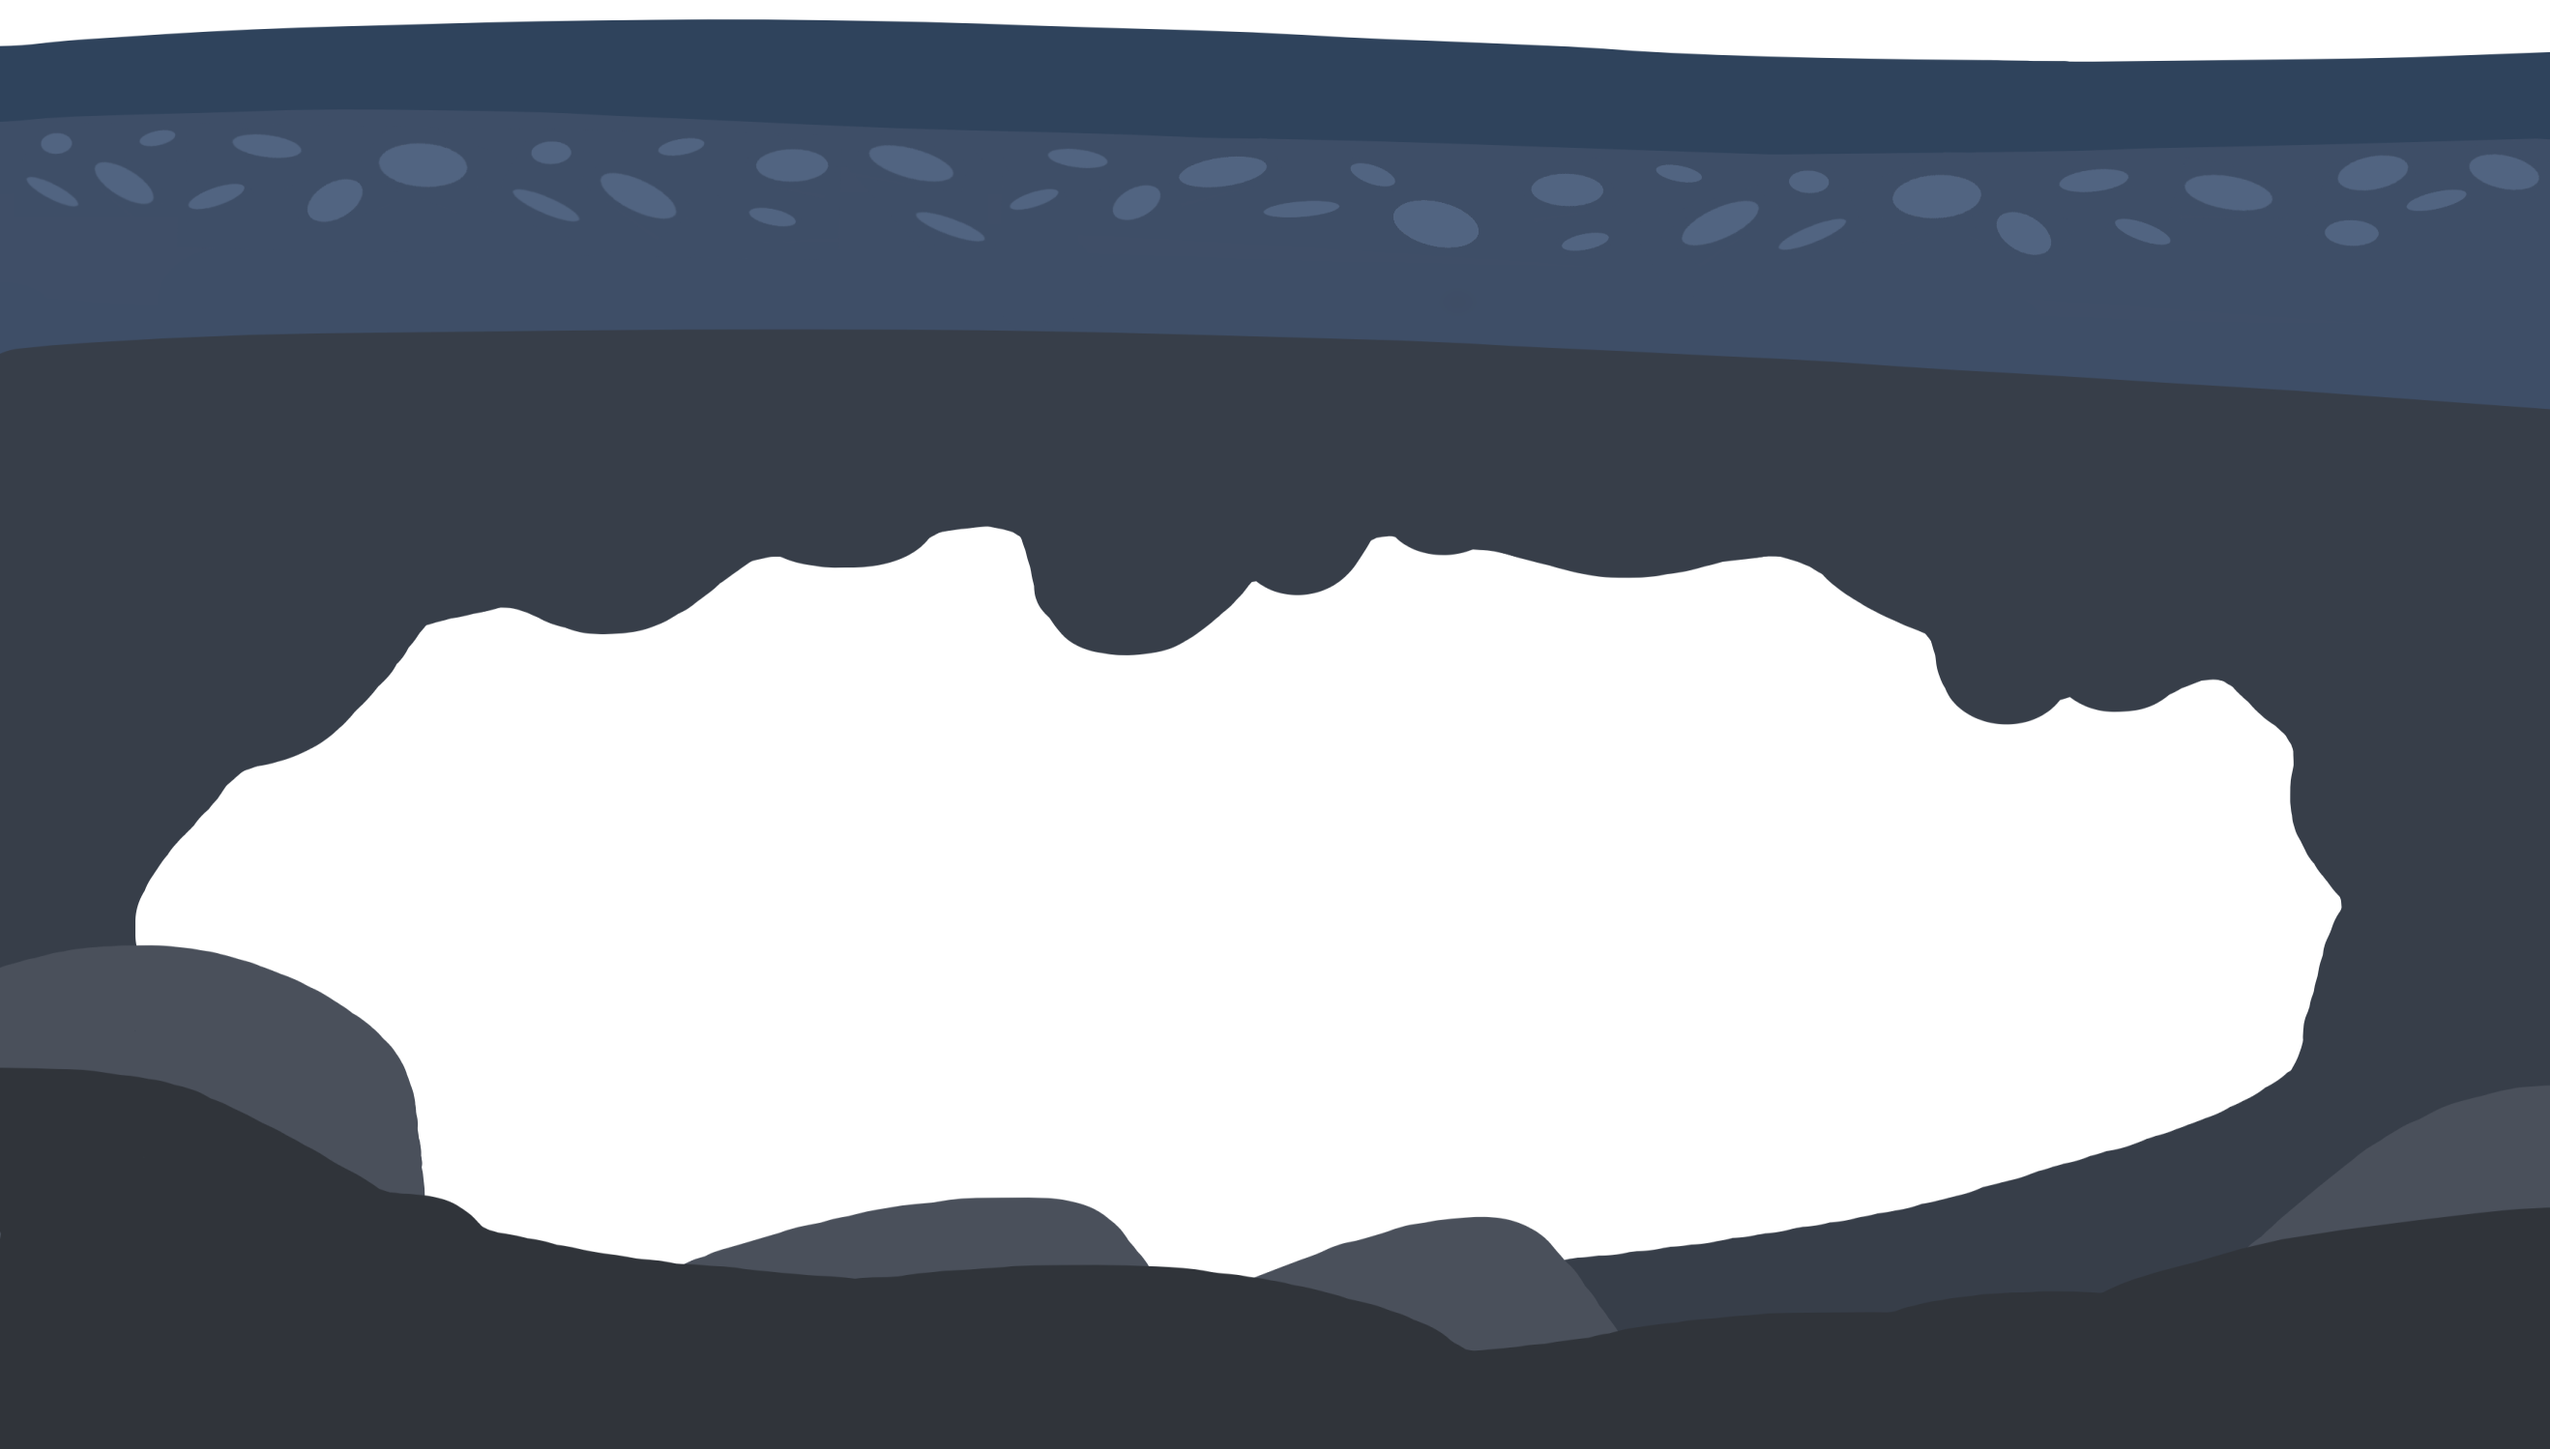
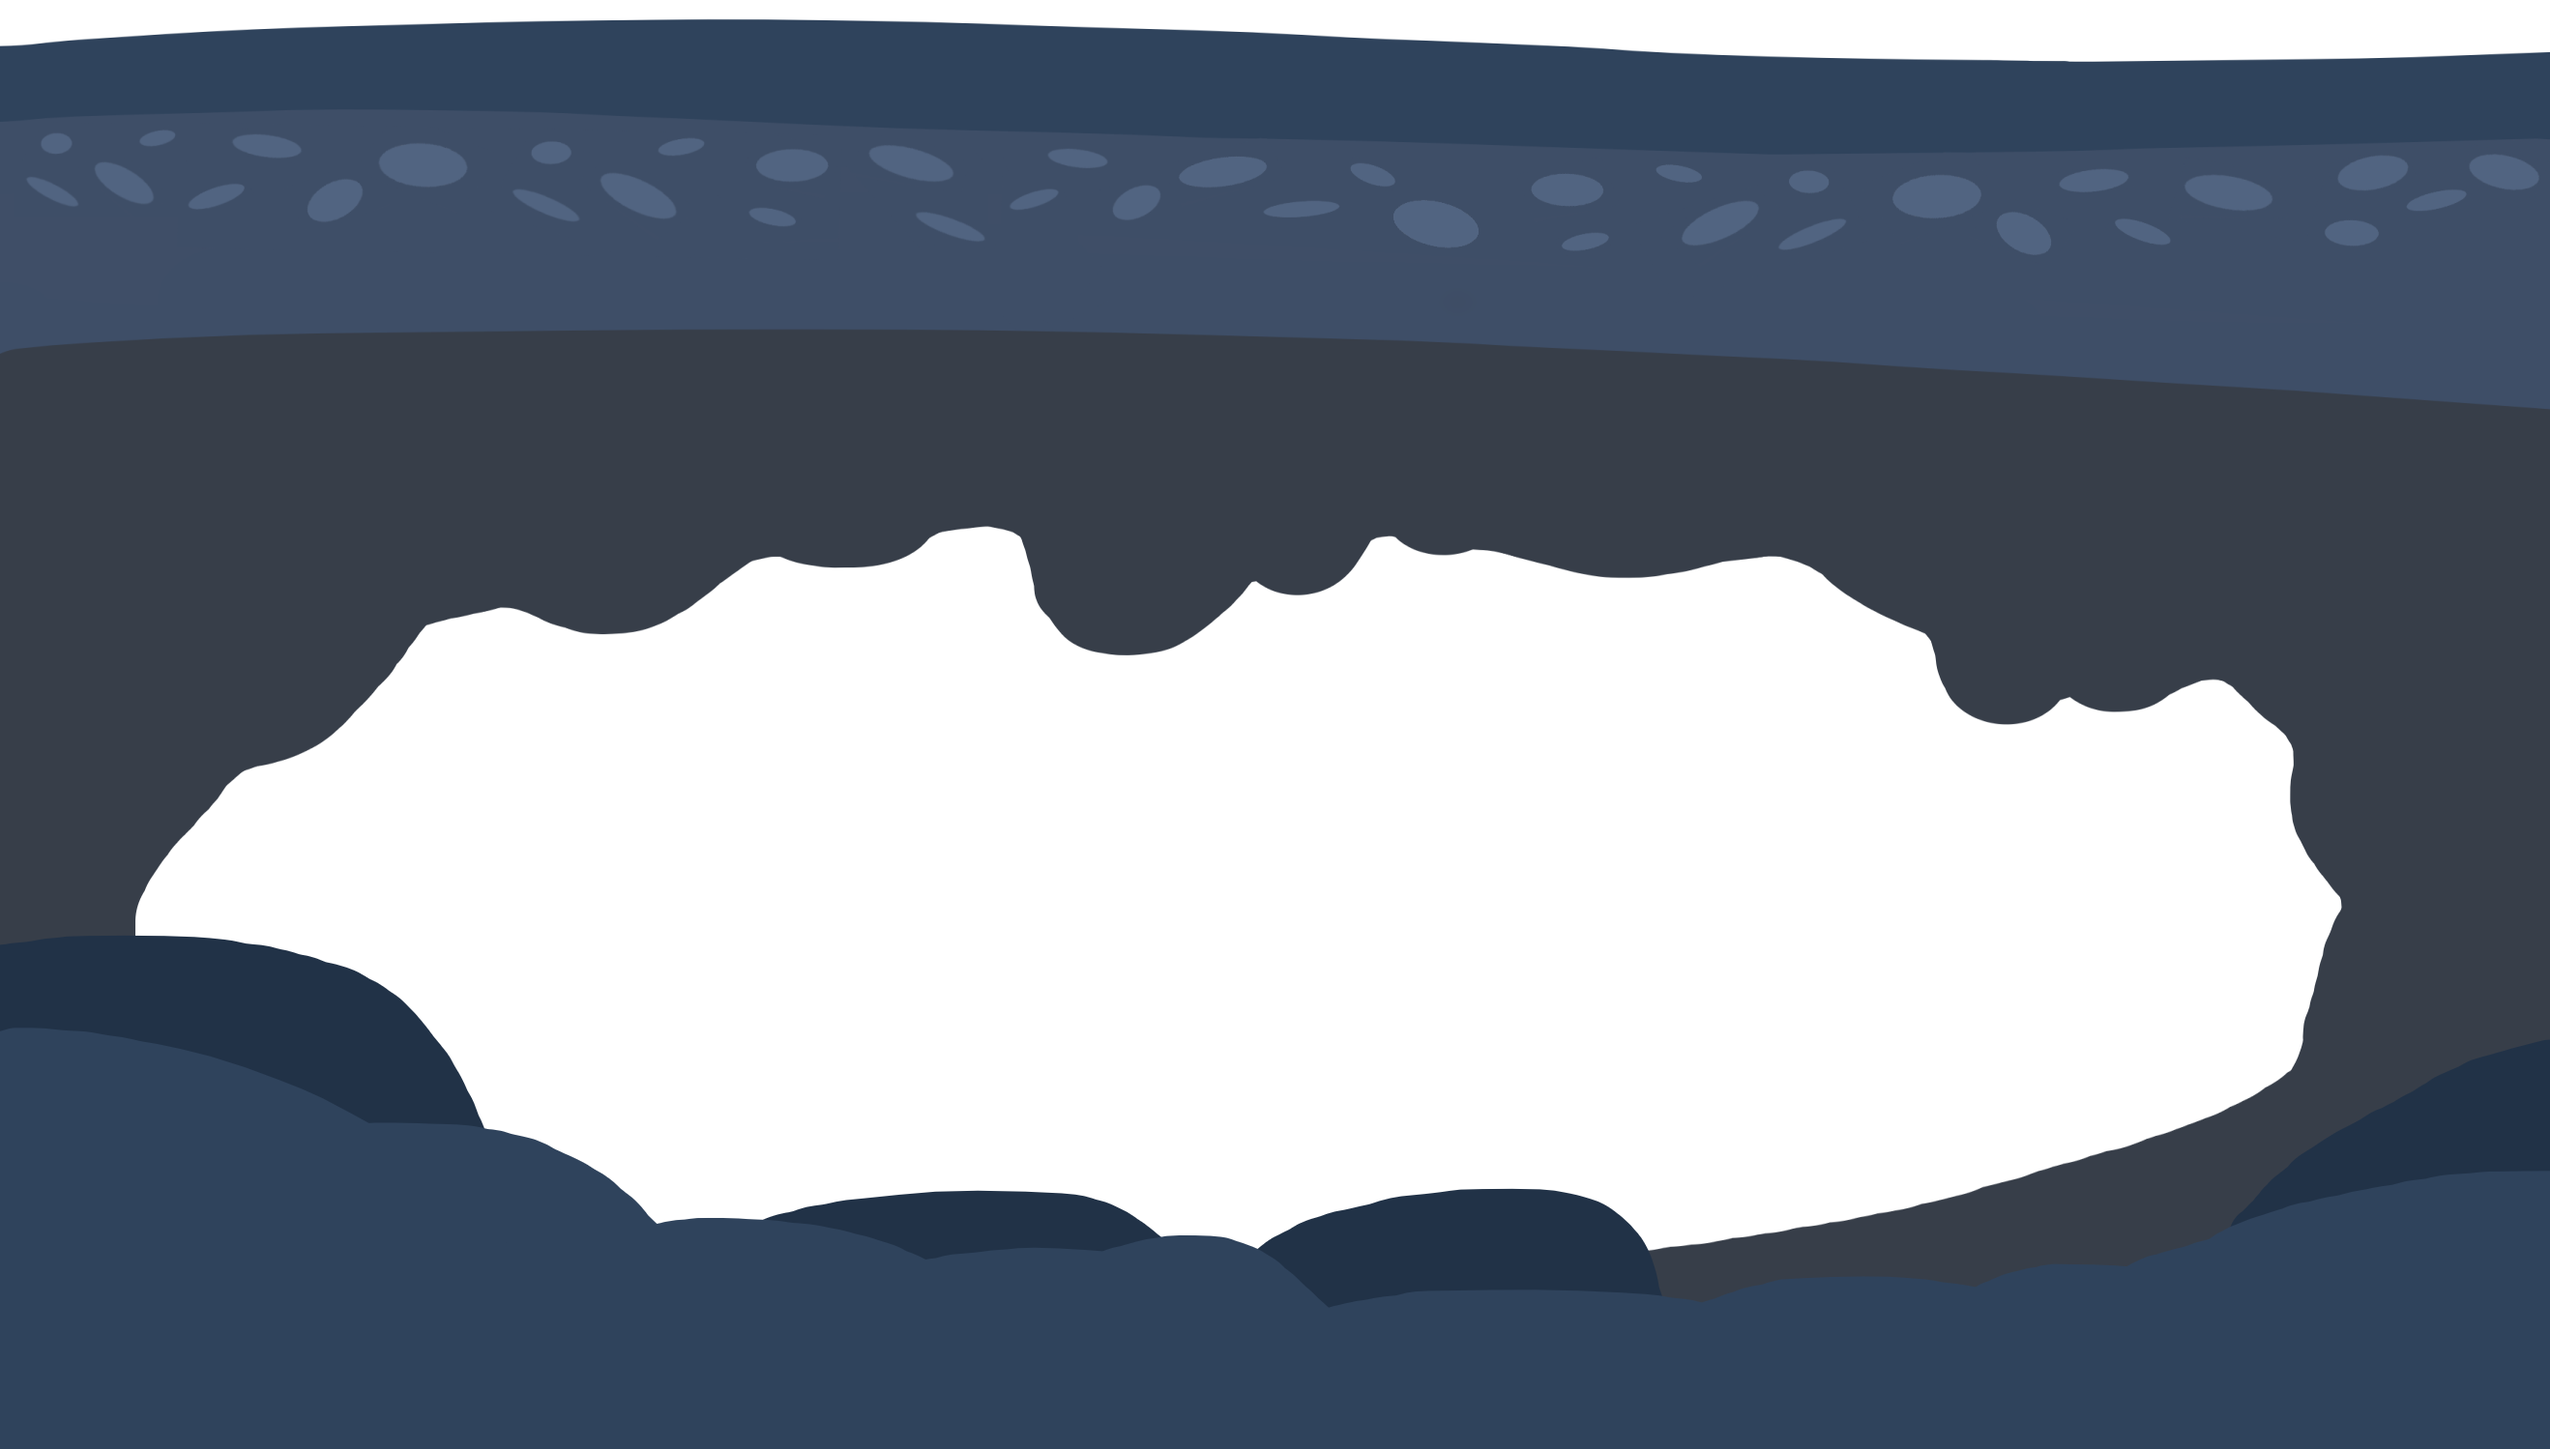
Changed footer image color

Changed region(s): [[0.0, 0.6444, 1.0, 1.0]]

diff --git a/.svelte-kit/ambient.d.ts b/.svelte-kit/ambient.d.ts
@@ -26,58 +26,89 @@
  * ```
  */
 declare module '$env/static/private' {
-	export const TERM_PROGRAM: string;
-	export const NODE: string;
-	export const INIT_CWD: string;
-	export const SHELL: string;
-	export const TERM: string;
-	export const TMPDIR: string;
-	export const npm_config_global_prefix: string;
-	export const TERM_PROGRAM_VERSION: string;
-	export const MallocNanoZone: string;
-	export const ORIGINAL_XDG_CURRENT_DESKTOP: string;
+	export const ALLUSERSPROFILE: string;
+	export const APPDATA: string;
+	export const CHROME_CRASHPAD_PIPE_NAME: string;
 	export const COLOR: string;
-	export const npm_config_noproxy: string;
-	export const npm_config_local_prefix: string;
-	export const USER: string;
-	export const COMMAND_MODE: string;
-	export const npm_config_globalconfig: string;
-	export const SSH_AUTH_SOCK: string;
-	export const __CF_USER_TEXT_ENCODING: string;
-	export const npm_execpath: string;
-	export const PATH: string;
-	export const npm_package_json: string;
-	export const _: string;
-	export const npm_config_userconfig: string;
-	export const npm_config_init_module: string;
-	export const __CFBundleIdentifier: string;
-	export const npm_command: string;
-	export const PWD: string;
-	export const npm_lifecycle_event: string;
-	export const EDITOR: string;
-	export const npm_package_name: string;
-	export const LOCAL_GIT_DIRECTORY: string;
-	export const LANG: string;
-	export const npm_config_npm_version: string;
-	export const XPC_FLAGS: string;
-	export const VSCODE_GIT_ASKPASS_EXTRA_ARGS: string;
-	export const npm_config_node_gyp: string;
-	export const npm_package_version: string;
-	export const XPC_SERVICE_NAME: string;
-	export const SHLVL: string;
-	export const HOME: string;
-	export const VSCODE_GIT_ASKPASS_MAIN: string;
-	export const npm_config_cache: string;
-	export const LOGNAME: string;
-	export const npm_lifecycle_script: string;
-	export const VSCODE_GIT_IPC_HANDLE: string;
-	export const npm_config_user_agent: string;
-	export const GIT_ASKPASS: string;
-	export const VSCODE_GIT_ASKPASS_NODE: string;
-	export const npm_node_execpath: string;
-	export const npm_config_prefix: string;
 	export const COLORTERM: string;
+	export const CommonProgramFiles: string;
+	export const CommonProgramW6432: string;
+	export const COMPUTERNAME: string;
+	export const ComSpec: string;
+	export const DriverData: string;
+	export const EDITOR: string;
+	export const EFC_8568: string;
+	export const GIT_ASKPASS: string;
+	export const HOME: string;
+	export const HOMEDRIVE: string;
+	export const HOMEPATH: string;
+	export const INIT_CWD: string;
+	export const LANG: string;
+	export const LOCALAPPDATA: string;
+	export const LOCAL_GIT_DIRECTORY: string;
+	export const LOGONSERVER: string;
+	export const NODE: string;
 	export const NODE_ENV: string;
+	export const NODE_EXE: string;
+	export const NPM_CLI_JS: string;
+	export const npm_command: string;
+	export const npm_config_cache: string;
+	export const npm_config_globalconfig: string;
+	export const npm_config_global_prefix: string;
+	export const npm_config_init_module: string;
+	export const npm_config_local_prefix: string;
+	export const npm_config_metrics_registry: string;
+	export const npm_config_node_gyp: string;
+	export const npm_config_noproxy: string;
+	export const npm_config_npm_version: string;
+	export const npm_config_prefix: string;
+	export const npm_config_userconfig: string;
+	export const npm_config_user_agent: string;
+	export const npm_execpath: string;
+	export const npm_lifecycle_event: string;
+	export const npm_lifecycle_script: string;
+	export const npm_node_execpath: string;
+	export const npm_package_json: string;
+	export const npm_package_name: string;
+	export const npm_package_version: string;
+	export const NPM_PREFIX_NPM_CLI_JS: string;
+	export const NUMBER_OF_PROCESSORS: string;
+	export const OculusBase: string;
+	export const OneDrive: string;
+	export const OneDriveConsumer: string;
+	export const ORIGINAL_XDG_CURRENT_DESKTOP: string;
+	export const OS: string;
+	export const Path: string;
+	export const PATHEXT: string;
+	export const PROCESSOR_ARCHITECTURE: string;
+	export const PROCESSOR_IDENTIFIER: string;
+	export const PROCESSOR_LEVEL: string;
+	export const PROCESSOR_REVISION: string;
+	export const ProgramData: string;
+	export const ProgramFiles: string;
+	export const ProgramW6432: string;
+	export const PROMPT: string;
+	export const PSModulePath: string;
+	export const PUBLIC: string;
+	export const SESSIONNAME: string;
+	export const SystemDrive: string;
+	export const SystemRoot: string;
+	export const TEMP: string;
+	export const TERM_PROGRAM: string;
+	export const TERM_PROGRAM_VERSION: string;
+	export const TMP: string;
+	export const USERDOMAIN: string;
+	export const USERDOMAIN_ROAMINGPROFILE: string;
+	export const USERNAME: string;
+	export const USERPROFILE: string;
+	export const VBOX_HWVIRTEX_IGNORE_SVM_IN_USE: string;
+	export const VBOX_MSI_INSTALL_PATH: string;
+	export const VSCODE_GIT_ASKPASS_EXTRA_ARGS: string;
+	export const VSCODE_GIT_ASKPASS_MAIN: string;
+	export const VSCODE_GIT_ASKPASS_NODE: string;
+	export const VSCODE_GIT_IPC_HANDLE: string;
+	export const VSCODE_INJECTION: string;
+	export const windir: string;
 }
 
 /**
@@ -109,58 +140,89 @@ declare module '$env/static/public' {
  */
 declare module '$env/dynamic/private' {
 	export const env: {
-		TERM_PROGRAM: string;
-		NODE: string;
-		INIT_CWD: string;
-		SHELL: string;
-		TERM: string;
-		TMPDIR: string;
-		npm_config_global_prefix: string;
-		TERM_PROGRAM_VERSION: string;
-		MallocNanoZone: string;
-		ORIGINAL_XDG_CURRENT_DESKTOP: string;
+		ALLUSERSPROFILE: string;
+		APPDATA: string;
+		CHROME_CRASHPAD_PIPE_NAME: string;
 		COLOR: string;
-		npm_config_noproxy: string;
-		npm_config_local_prefix: string;
-		USER: string;
-		COMMAND_MODE: string;
-		npm_config_globalconfig: string;
-		SSH_AUTH_SOCK: string;
-		__CF_USER_TEXT_ENCODING: string;
-		npm_execpath: string;
-		PATH: string;
-		npm_package_json: string;
-		_: string;
-		npm_config_userconfig: string;
-		npm_config_init_module: string;
-		__CFBundleIdentifier: string;
-		npm_command: string;
-		PWD: string;
-		npm_lifecycle_event: string;
-		EDITOR: string;
-		npm_package_name: string;
-		LOCAL_GIT_DIRECTORY: string;
-		LANG: string;
-		npm_config_npm_version: string;
-		XPC_FLAGS: string;
-		VSCODE_GIT_ASKPASS_EXTRA_ARGS: string;
-		npm_config_node_gyp: string;
-		npm_package_version: string;
-		XPC_SERVICE_NAME: string;
-		SHLVL: string;
-		HOME: string;
-		VSCODE_GIT_ASKPASS_MAIN: string;
-		npm_config_cache: string;
-		LOGNAME: string;
-		npm_lifecycle_script: string;
-		VSCODE_GIT_IPC_HANDLE: string;
-		npm_config_user_agent: string;
-		GIT_ASKPASS: string;
-		VSCODE_GIT_ASKPASS_NODE: string;
-		npm_node_execpath: string;
-		npm_config_prefix: string;
 		COLORTERM: string;
+		CommonProgramFiles: string;
+		CommonProgramW6432: string;
+		COMPUTERNAME: string;
+		ComSpec: string;
+		DriverData: string;
+		EDITOR: string;
+		EFC_8568: string;
+		GIT_ASKPASS: string;
+		HOME: string;
+		HOMEDRIVE: string;
+		HOMEPATH: string;
+		INIT_CWD: string;
+		LANG: string;
+		LOCALAPPDATA: string;
+		LOCAL_GIT_DIRECTORY: string;
+		LOGONSERVER: string;
+		NODE: string;
 		NODE_ENV: string;
+		NODE_EXE: string;
+		NPM_CLI_JS: string;
+		npm_command: string;
+		npm_config_cache: string;
+		npm_config_globalconfig: string;
+		npm_config_global_prefix: string;
+		npm_config_init_module: string;
+		npm_config_local_prefix: string;
+		npm_config_metrics_registry: string;
+		npm_config_node_gyp: string;
+		npm_config_noproxy: string;
+		npm_config_npm_version: string;
+		npm_config_prefix: string;
+		npm_config_userconfig: string;
+		npm_config_user_agent: string;
+		npm_execpath: string;
+		npm_lifecycle_event: string;
+		npm_lifecycle_script: string;
+		npm_node_execpath: string;
+		npm_package_json: string;
+		npm_package_name: string;
+		npm_package_version: string;
+		NPM_PREFIX_NPM_CLI_JS: string;
+		NUMBER_OF_PROCESSORS: string;
+		OculusBase: string;
+		OneDrive: string;
+		OneDriveConsumer: string;
+		ORIGINAL_XDG_CURRENT_DESKTOP: string;
+		OS: string;
+		Path: string;
+		PATHEXT: string;
+		PROCESSOR_ARCHITECTURE: string;
+		PROCESSOR_IDENTIFIER: string;
+		PROCESSOR_LEVEL: string;
+		PROCESSOR_REVISION: string;
+		ProgramData: string;
+		ProgramFiles: string;
+		ProgramW6432: string;
+		PROMPT: string;
+		PSModulePath: string;
+		PUBLIC: string;
+		SESSIONNAME: string;
+		SystemDrive: string;
+		SystemRoot: string;
+		TEMP: string;
+		TERM_PROGRAM: string;
+		TERM_PROGRAM_VERSION: string;
+		TMP: string;
+		USERDOMAIN: string;
+		USERDOMAIN_ROAMINGPROFILE: string;
+		USERNAME: string;
+		USERPROFILE: string;
+		VBOX_HWVIRTEX_IGNORE_SVM_IN_USE: string;
+		VBOX_MSI_INSTALL_PATH: string;
+		VSCODE_GIT_ASKPASS_EXTRA_ARGS: string;
+		VSCODE_GIT_ASKPASS_MAIN: string;
+		VSCODE_GIT_ASKPASS_NODE: string;
+		VSCODE_GIT_IPC_HANDLE: string;
+		VSCODE_INJECTION: string;
+		windir: string;
 		[key: `PUBLIC_${string}`]: undefined;
 		[key: `${string}`]: string | undefined;
 	}

diff --git a/src/lib/organisms/Footer.svelte b/src/lib/organisms/Footer.svelte
@@ -118,7 +118,7 @@
 
   section {
     height: 100vh;
-    background-color: #30343a;
+    background-color: #2f435c;
     position: relative;
   }
 
@@ -128,6 +128,8 @@
     flex-direction: column;
     justify-content: space-evenly;
     position: relative;
+    height: max-content;
+    padding-bottom: 10rem;
   }
 
   .line {
